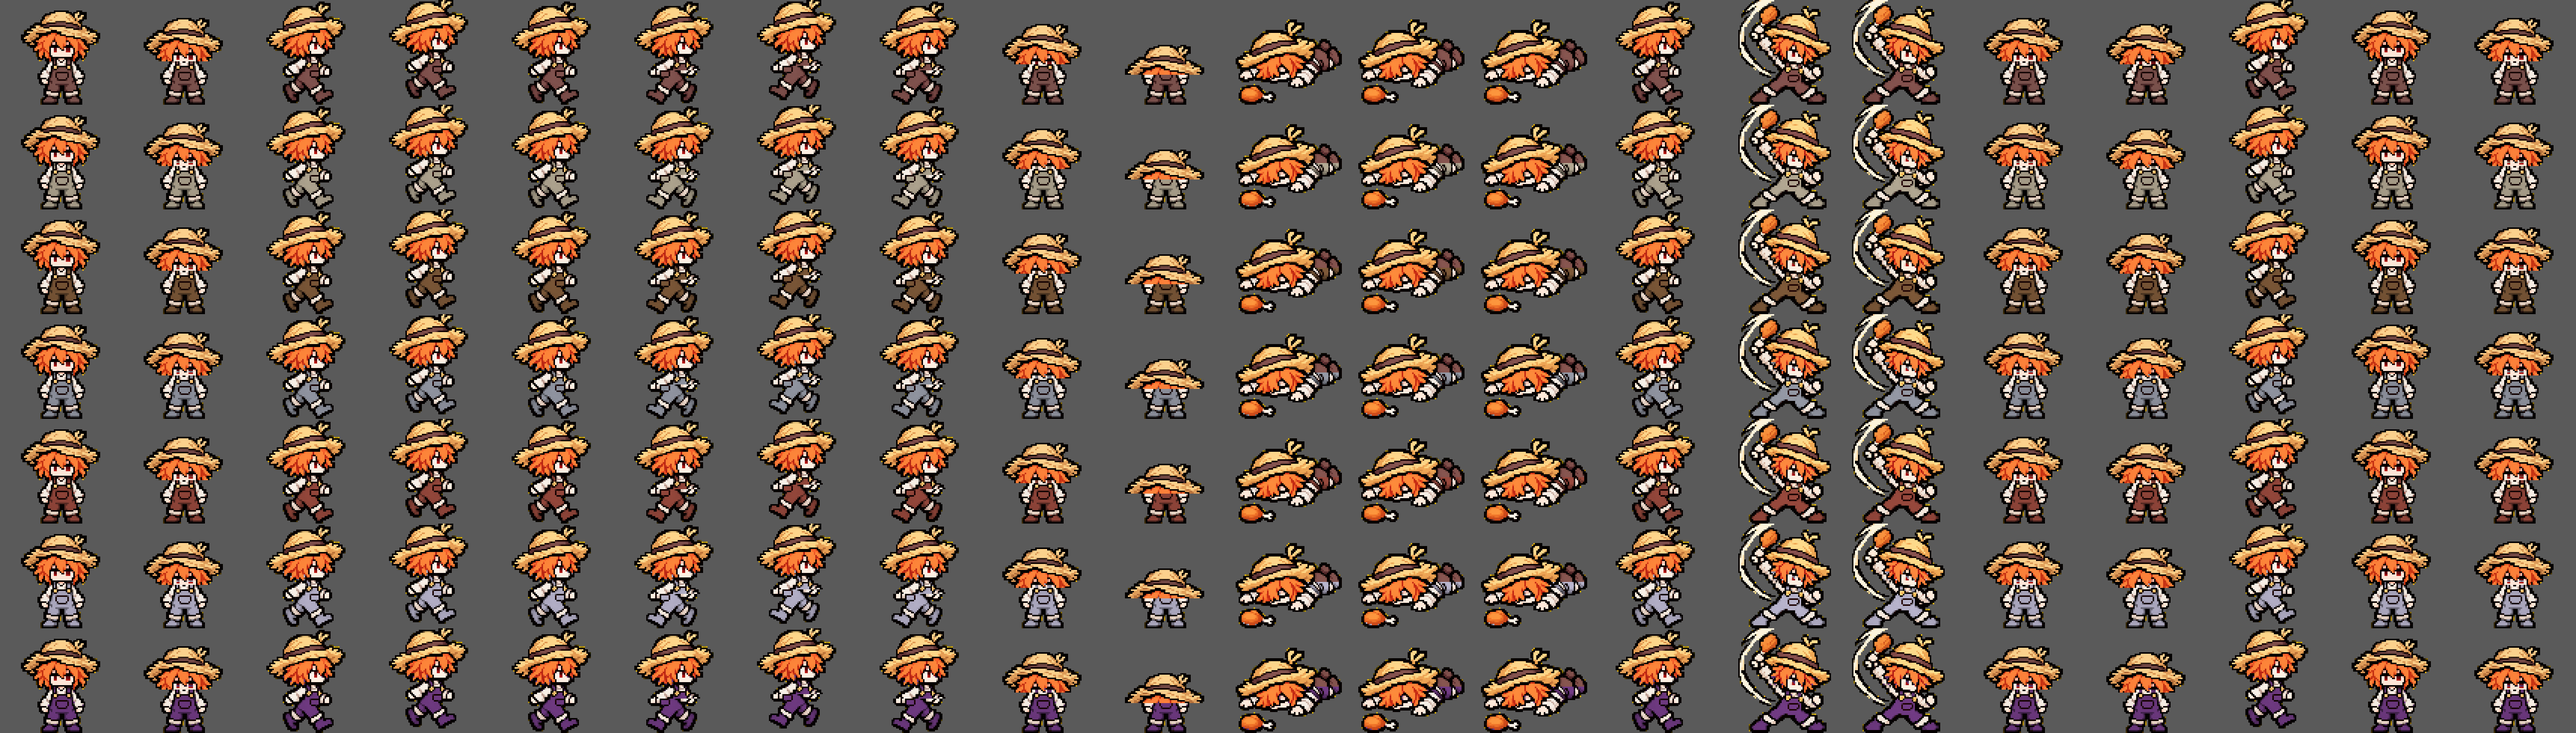
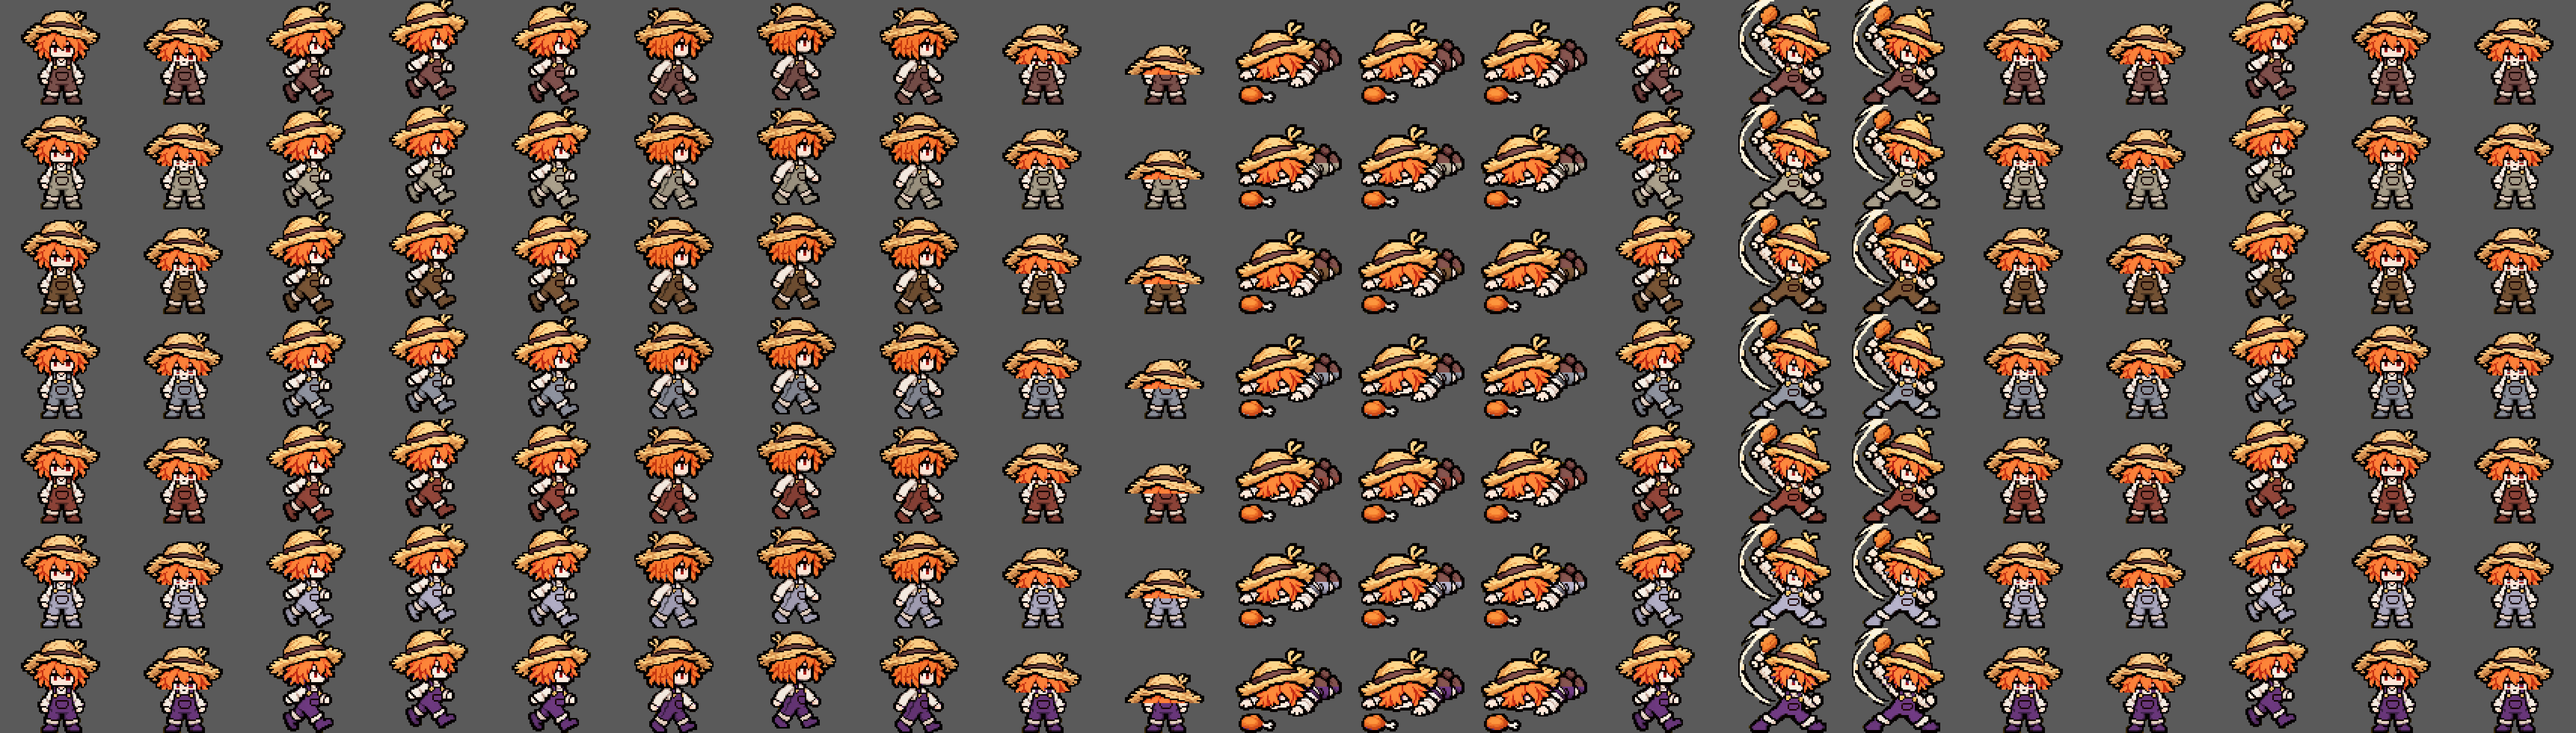
Gluttony and sloth: the owner's second walking stride
Claude-Session: https://claude.ai/code/session_012M3rhQLajx4vDKV2gRwmnm

Changed region(s): [[0.2493, 0.0, 0.374, 1.0]]

diff --git a/tools/sinsart/make_hero_sprites.py b/tools/sinsart/make_hero_sprites.py
@@ -128,7 +128,7 @@ PITCH = {"lust": {"front": 12.0, "walk": 12.0, "attack": 12.0, "die": 9.2},
          "wrath": {"front": 22.3, "walk": 22.3, "attack": 22.3, "die": 22.3},
          # gluttony (third design): the poses are drawn at different zooms, matched on the straw hat's width (attack:
          # on the hat-to-boots height, its brim is foreshortened; the raised drumstick and swoosh tip still overflow)
-         "gluttony": {"front": 18.0, "walk": 18.7, "attack": 17.0, "die": 14.9},
+         "gluttony": {"front": 18.0, "walk": 18.7, "walk2": 14.4, "attack": 17.0, "die": 14.9},
          # pride (second design, Nov 17 2026): one zoom (crown ~435 source px wide) except the attack, drawn a bit
          # smaller (crown ~400), sampled finer to match
          "pride": {"front": 17.2, "walk": 17.2, "walk2": 17.2, "attack": 15.8, "die": 17.2}}
@@ -442,9 +442,11 @@ GLOBAL_BG = {"gluttony"}
 SWAP_LEGS = {"pride": False, "envy": False}
 # background-coloured fringe to peel off the silhouette (layers): envy's hair is the background's green, so the
 # cut can't be made looser instead
-FRINGE = {"envy": 2, "sloth": 2}
+FRINGE = {"envy": 2, "sloth": 2, "gluttony": 1}  # gluttony: walk2.png left a yellow rim
 # walk pictures drawn facing left
 WALK_MIRROR = {"envy", "sloth"}
+# walk2 pictures whose facing differs from walk's (default: mirrored like walk)
+WALK2_MIRROR = {"sloth": False}                 # sloth's second stride is drawn facing right
 
 # per-pose size correction when Gemini drew a pose at a different zoom (matched by eye on the head/hood size)
 POSE_SCALE = {"greed": {"attack": 0.78, "die": 0.78},
@@ -462,9 +464,9 @@ def build_frames(pics, name="default"):
     isl = ISLAND_SHARE.get(name, ISLAND_SHARE["default"])
     poses = {k: cut_background_(v, isl, name in GLOBAL_BG, FRINGE.get(name, 0)) for k, v in pics.items()}
     if name in WALK_MIRROR:
-        for wk in ("walk", "walk2"):
-            if wk in poses:
-                poses[wk] = mirror(poses[wk])
+        poses["walk"] = mirror(poses["walk"])
+    if "walk2" in poses and WALK2_MIRROR.get(name, name in WALK_MIRROR):
+        poses["walk2"] = mirror(poses["walk2"])
     mir = ATTACK_MIRROR.get(name)
     if mir is None:
         mir = faces_left(poses["attack"])

diff --git a/CLAUDE.md b/CLAUDE.md
@@ -617,7 +617,8 @@ red skirt) to `TIER_CLOTHES`, tier 6 = the sin's hue or `TIER6`. Also writes the
 fitted to the height on black, character at `SPLASH_FOCUS`). `make_sin_assets.py` leaves the sheet/avatar/splash of a sin with
 pictures alone. `GLOBAL_BG` also clears the background colour inside closed loops (gluttony's attack swoosh), `SWAP_LEGS` False
 runs on the walk pose with bob only (long coats); an optional `hero_art/<sin>/walk2.png` (the other stride, same direction,
-zoom and colours as walk; gets `WALK_MIRROR` and its own `PITCH` entry, defaulting to walk's) replaces both for run frames 5-7, `SPLASH_ERASE` paints boxes (the Gemini sparkle) out of a splash.
+zoom and colours as walk; gets `WALK_MIRROR` and its own `PITCH` entry, defaulting to walk's) replaces both for run frames 5-7 (`WALK2_MIRROR` overrides its facing when it differs from walk's: sloth's walk2 faces right; drawn
+second strides so far: pride, gluttony (pitch 14.4, `FRINGE` 1 for its yellow rim), sloth), `SPLASH_ERASE` paints boxes (the Gemini sparkle) out of a splash.
 Done: gluttony (third design Nov 16: farm girl in a straw hat and brown overalls with a drumstick, 82x70; per-pose `PITCH`
  matched on the hat; `CLOTHES` = the dark brown overalls and boots below the hat band, tier 6 the sin's violet; `SWAP_LEGS` on
  again (no coat); attack keeps the swoosh (`GLOBAL_BG` clears the yellow inside it); splash on its own orange), greed (65x54), wrath (second design Nov 16: red-haired
